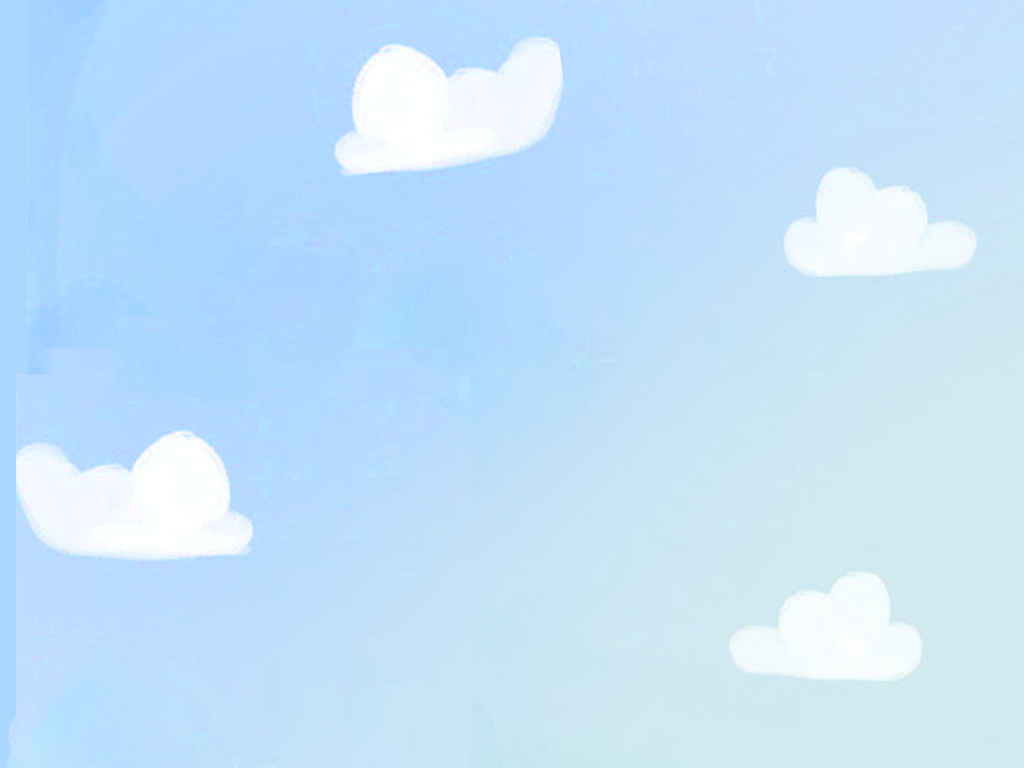
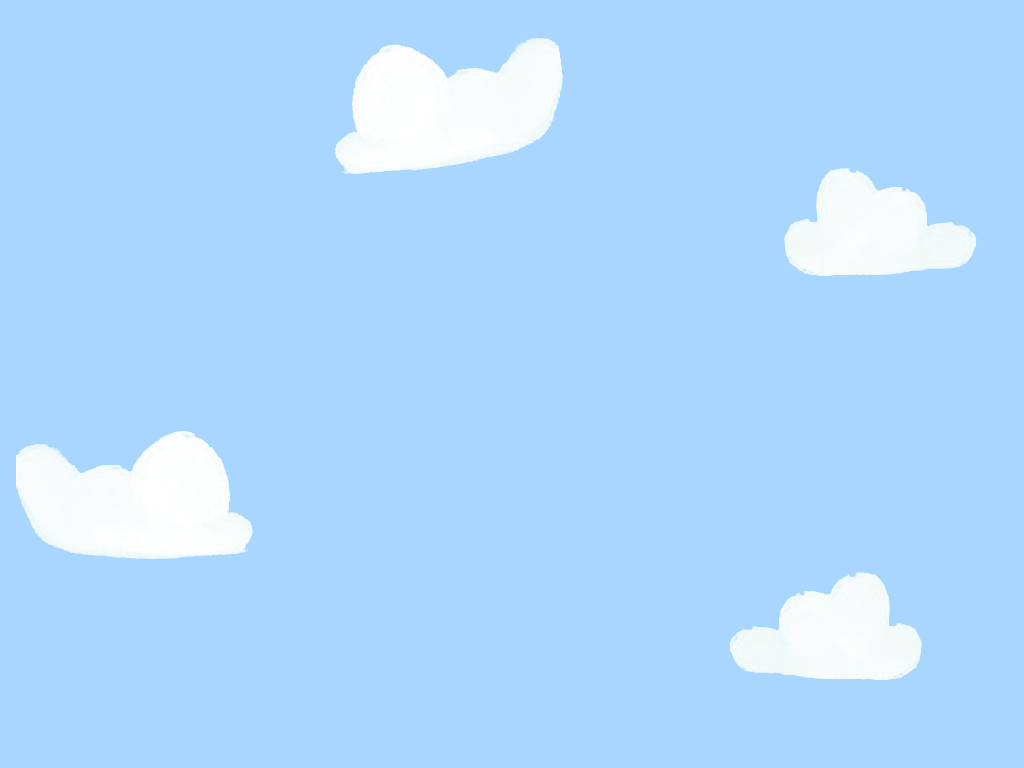
new font color and positioning

diff --git a/public/stylesheets/main.css b/public/stylesheets/main.css
@@ -10,7 +10,7 @@ body {
 	font-family: 'dk_cool_crayonregular'; 
 }
 .overlap {
-	background-image: url('../images/modules/background_mobile.png');
+	background-image: url('../images/modules/clouds.png');
 	height: 100%;
 	width: 100%;
     background-attachment: fixed;
@@ -141,6 +141,14 @@ section.video {
 	padding-left: 4em;
 	line-height: 1.5em;
 }
+
+div.section-header {
+	width: 100%;
+	text-align: center;
+	font-size: 1.8em;
+	color: #ed7844;
+}	
+
 section.the-product {
 	padding-bottom: 4em;
 }
@@ -184,9 +192,11 @@ section.the-product {
 /*when the image doesn't scale it extends the width of the divs beyond the viewport*/
 
 @media screen and (max-width: 48em) {
-	html, body {
+	.overlap {
 		background-image: url('../images/modules/background_mobile2.png');
 	}
+
+
 	.column {
 		display: table-row; 
 	}	
@@ -214,6 +224,17 @@ section.the-product {
 	#bedframe {
 		float: none;
 	}
+
+	.the-problem .text {
+		text-align: center;
+		float: none;
+		width: 80%;
+		margin: 0 auto;
+		
+		padding-right: 0em;
+		line-height: 1.5em;
+	}
+
 
 }
 
